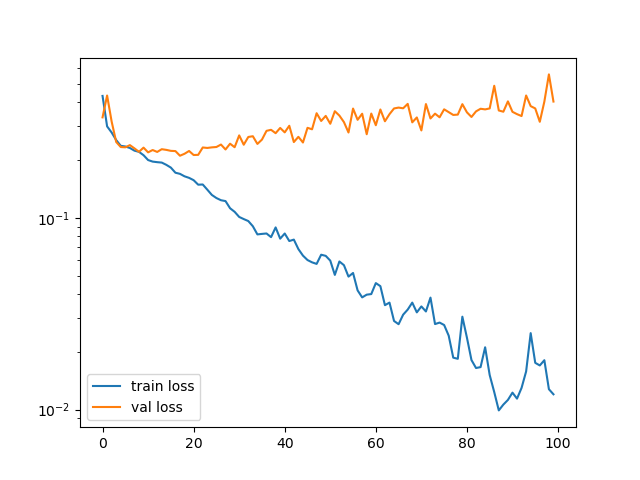
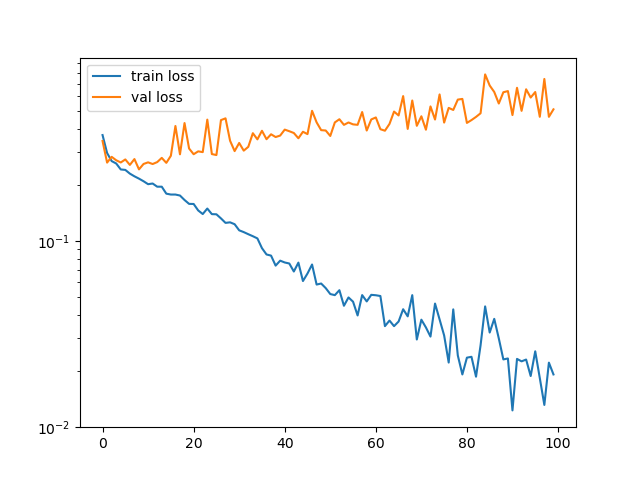
try

diff --git a/HW5/src_to_implement/train.py b/HW5/src_to_implement/train.py
@@ -17,8 +17,8 @@ train_tab, val_tab = train_test_split(tab, test_size=0.2, random_state=31)
 
 # set up data loading for the training and validation set each using t.utils.data.DataLoader and ChallengeDataset objects
 # TODO
-train_dl = t.utils.data.DataLoader(ChallengeDataset(train_tab, 'train'), batch_size=8)
-val_dl = t.utils.data.DataLoader(ChallengeDataset(val_tab, 'val'), batch_size=8)
+train_dl = t.utils.data.DataLoader(ChallengeDataset(train_tab, 'train'), batch_size=32, shuffle = True)
+val_dl = t.utils.data.DataLoader(ChallengeDataset(val_tab, 'val'), batch_size=32)
 
 # create an instance of our ResNet model
 # TODO
@@ -29,11 +29,11 @@ model = model.ResNet()
 # create an object of type Trainer and set its early stopping criterion
 # TODO
 crit = t.nn.BCELoss()
-optimizer = t.optim.Adam(model.parameters(), lr=0.0001)
-trainer = Trainer(model, crit, optimizer, train_dl, val_dl, cuda=True)
+optimizer = t.optim.Adam(model.parameters(), lr=0.001, weight_decay = 0.135)
+trainer = Trainer(model, crit, optimizer, train_dl, val_dl, cuda=True, early_stopping_patience=25)
 
 # go, go, go... call fit on trainer
-res = trainer.fit(epochs=100)
+res = trainer.fit(epochs=50)
 
 # plot the results
 plt.plot(np.arange(len(res[0])), res[0], label='train loss')

diff --git a/HW5/src_to_implement/trainer.py b/HW5/src_to_implement/trainer.py
@@ -154,11 +154,16 @@ class Trainer:
             train_losses.append(train_loss)
             val_losses.append(val_loss)
             val_metrics.append(val_metric)
-            self.save_checkpoint(epoch_n)
+
             if self._early_stopping_patience > 0:
                 if len(val_losses) > self._early_stopping_patience:
-                    if val_losses[-self._early_stopping_patience] - val_losses[-1] > 0.001:
+                    if val_losses[-1] > val_losses[-self._early_stopping_patience-1]:
                         break
+            self.save_checkpoint(epoch_n)
+            # if self._early_stopping_patience > 0:
+            #     if len(val_losses) > self._early_stopping_patience:
+            #         if val_losses[-self._early_stopping_patience] - val_losses[-1] > 0.001:
+            #             break
             epoch_n += 1
             print('\tTrain Loss: %.4f\tVal Loss: %.4f\tVal Metric: %.4f'%(train_loss, val_loss, val_metric))
         return train_losses, val_losses, val_metrics
